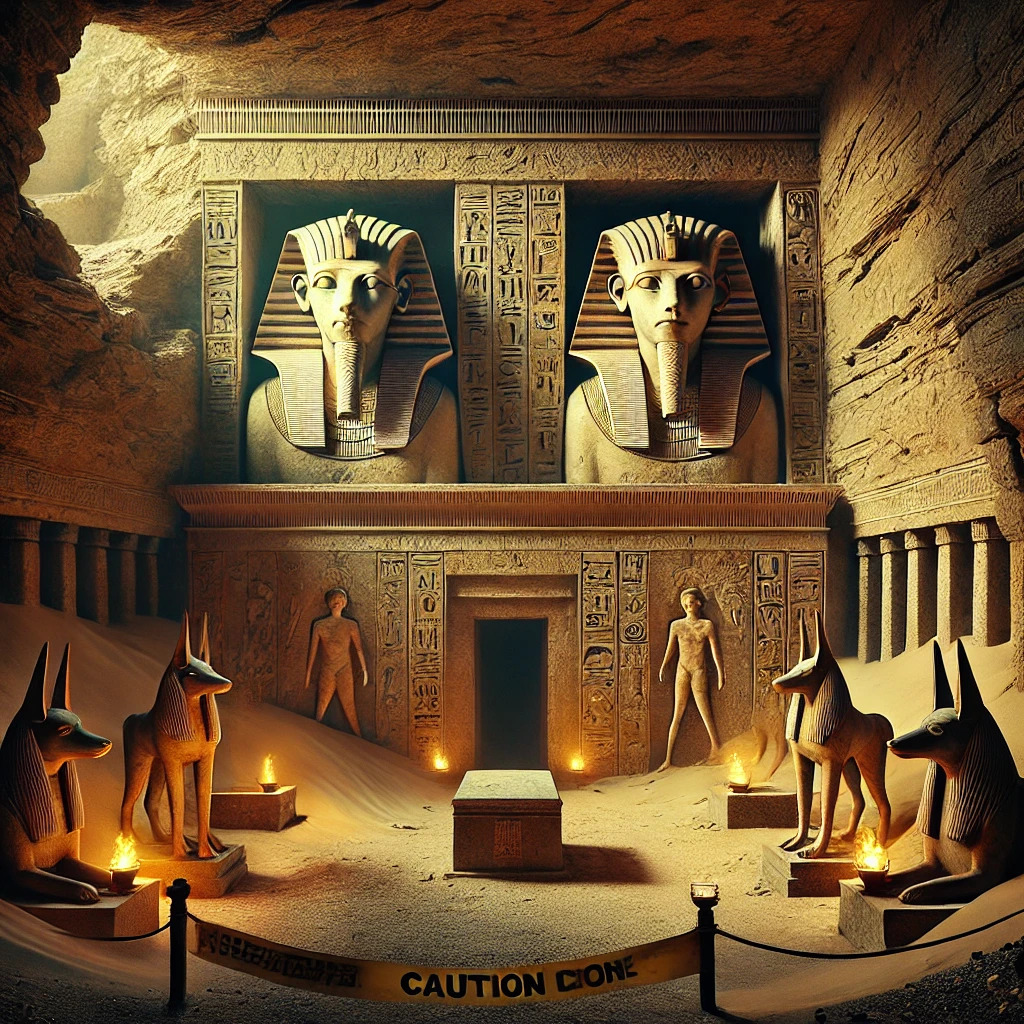
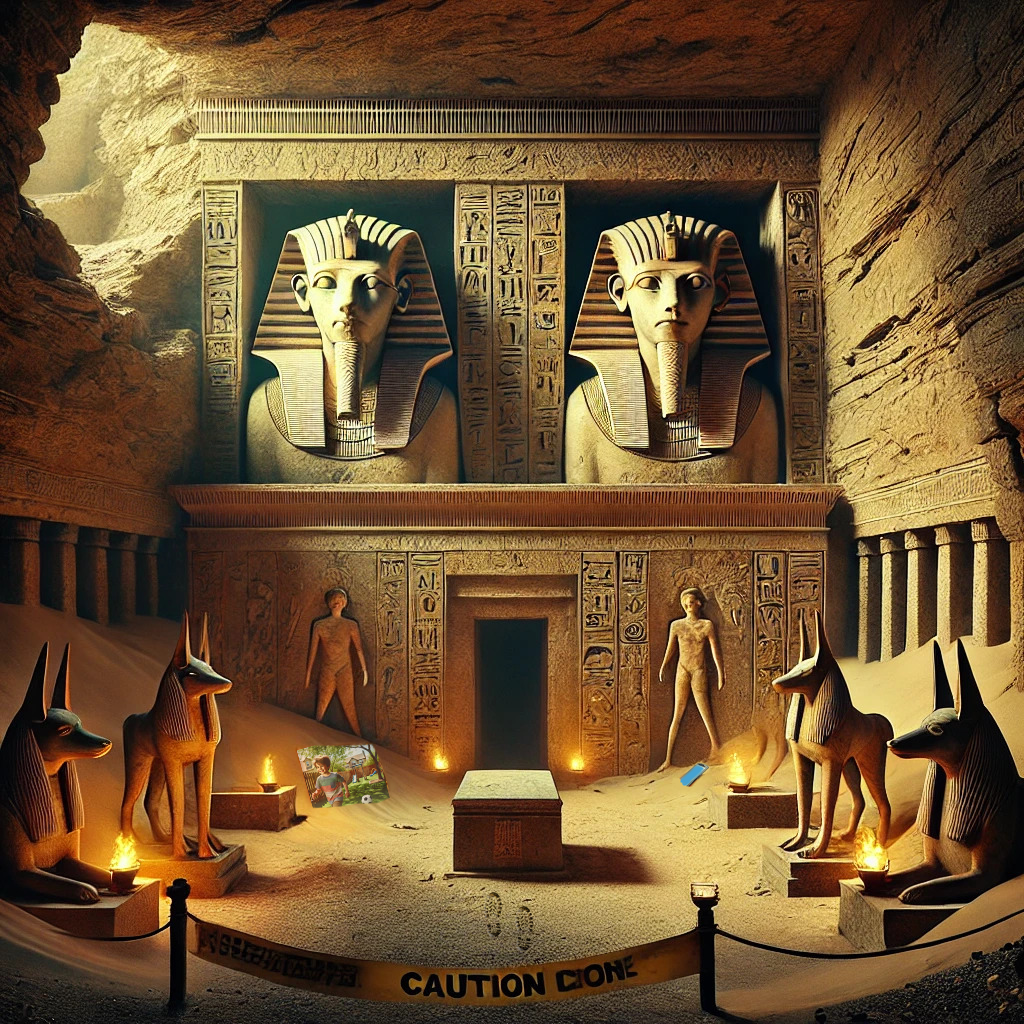
added the necessary resources and the phone feature

Changed region(s): [[0.2812, 0.7188, 0.375, 0.8125], [0.4688, 0.875, 0.5312, 0.9062], [0.6562, 0.75, 0.6875, 0.7812]]

diff --git a/src/main/java/nz/ac/auckland/se206/controllers/RoomController.java b/src/main/java/nz/ac/auckland/se206/controllers/RoomController.java
@@ -11,6 +11,7 @@ import javafx.scene.control.Label;
 import javafx.scene.image.Image;
 import javafx.scene.image.ImageView;
 import javafx.scene.input.MouseEvent;
+import javafx.scene.layout.Pane;
 import javafx.scene.layout.VBox;
 import javafx.scene.shape.Rectangle;
 import javafx.scene.text.Text;
@@ -47,6 +48,7 @@ public class RoomController {
   @FXML private ImageView closeButtonImage;
   @FXML private ImageView closeButtonImage1;
   @FXML private ImageView closeButtonImage2;
+  @FXML private ImageView closeButtonImage3;
   @FXML private ImageView crimeScene;
   @FXML private ImageView cross;
   @FXML private ImageView guide;
@@ -63,17 +65,14 @@ public class RoomController {
   @FXML private Text objective2Label;
   @FXML private VBox objectiveMenu;
   @FXML private VBox suspectMenu;
+  @FXML private Pane phonePopup;
+  @FXML private ImageView phoneDisplay;
 
   private boolean clueVisible = false;
   private boolean isFootprintVisible = false;
   private GameTimer gameTimer;
   private Image backImage;
-  private Image fifthSlide;
   private Image frontImage;
-  private Image fourthSlide;
-  private Image secondSlide;
-  private Image sixthSlide;
-  private Image thirdSlide;
   private ObjectivesManager objectivesManager;
 
   /**
@@ -112,12 +111,6 @@ public class RoomController {
 
     frontImage = new Image(getClass().getResourceAsStream("/images/kid.jpg"));
     backImage = new Image(getClass().getResourceAsStream("/images/pin.png"));
-
-    secondSlide = new Image(getClass().getResourceAsStream("/images/730.png"));
-    thirdSlide = new Image(getClass().getResourceAsStream("/images/740.png"));
-    fourthSlide = new Image(getClass().getResourceAsStream("/images/750.png"));
-    fifthSlide = new Image(getClass().getResourceAsStream("/images/static.png"));
-    sixthSlide = new Image(getClass().getResourceAsStream("/images/stolen.png"));
     photoClue.setImage(frontImage);
 
     objectivesManager = ObjectivesManager.getInstance();
@@ -131,6 +124,39 @@ public class RoomController {
     } else {
       btnGuess.setDisable(false);
     }
+  }
+
+  @FXML
+  private void onPhoneClick() {
+    phonePopup.setVisible(true);
+    closeButtonImage3.setVisible(true);
+  }
+
+  @FXML
+  private void onPhotoClicked() {
+    phoneDisplay.setImage(new Image(getClass().getResourceAsStream("/images/img1.png")));
+  }
+
+  @FXML
+  private void onBackPressed() {
+    phoneDisplay.setImage(new Image(getClass().getResourceAsStream("/images/home_screen.png")));
+  }
+
+  @FXML
+  private void onUnlockPhone() {
+    phoneDisplay.setImage(new Image(getClass().getResourceAsStream("/images/home_screen.png")));
+  }
+
+  @FXML
+  private void onCalendarClicked() {
+    phoneDisplay.setImage(new Image(getClass().getResourceAsStream("/images/calendar.png")));
+  }
+
+  @FXML
+  private void onCloseButtonPressed() {
+    phonePopup.setVisible(false); // Hide the phone popup when the close button is clicked
+    phoneDisplay.setImage(new Image(getClass().getResourceAsStream("/images/phone.png")));
+    closeButtonImage3.setVisible(false);
   }
 
   @FXML
@@ -185,26 +211,6 @@ public class RoomController {
   }
 
   @FXML
-  private void onCamClicked() {
-    // if the suspect menu is visible then it will be closed
-    if (suspectMenu.isVisible()) {
-      onToggleMenu();
-    }
-    // closes all the other clues
-    handleCloseClick(null);
-    onCloseButton1Pressed();
-    closeButtonImage1.setVisible(false);
-    // updates the objectives since a clue has been clicked
-    objectivesManager.completeObjectiveStep(1);
-    pictureBackground.setVisible(false);
-    // sets the current slide to the first slide
-    camSlide.setVisible(true);
-    closeButtonImage2.setVisible(true);
-    current = 1;
-    camSlide.setImage(secondSlide);
-  }
-
-  @FXML
   private void onCloseButton2Pressed() {
     pictureBackground.setVisible(true);
     camSlide.setVisible(false);
@@ -215,19 +221,16 @@ public class RoomController {
   public void nxtImg() {
     // basically a switch statement to change the image
     // to the right based on what slide it is currently on
-    System.out.println(current);
+
     current = current + 1;
+    System.out.println(current);
     if (current == 2) {
-      camSlide.setImage(thirdSlide);
+      phoneDisplay.setImage(new Image(getClass().getResourceAsStream("/images/img2.png")));
     } else if (current == 3) {
-      camSlide.setImage(fourthSlide);
-    } else if (current == 4) {
-      camSlide.setImage(fifthSlide);
-    } else if (current == 5) {
-      camSlide.setImage(sixthSlide);
+      phoneDisplay.setImage(new Image(getClass().getResourceAsStream("/images/img3.png")));
     } else {
-      current = 5;
-      camSlide.setImage(sixthSlide);
+      current = 3;
+      phoneDisplay.setImage(new Image(getClass().getResourceAsStream("/images/img3.png")));
     }
   }
 
@@ -238,16 +241,12 @@ public class RoomController {
     System.out.println(current);
     current = current - 1;
     if (current == 2) {
-      camSlide.setImage(thirdSlide);
+      phoneDisplay.setImage(new Image(getClass().getResourceAsStream("/images/img2.png")));
     } else if (current == 3) {
-      camSlide.setImage(fourthSlide);
-    } else if (current == 4) {
-      camSlide.setImage(fifthSlide);
-    } else if (current == 5) {
-      camSlide.setImage(sixthSlide);
+      phoneDisplay.setImage(new Image(getClass().getResourceAsStream("/images/img3.png")));
     } else {
       current = 1;
-      camSlide.setImage(secondSlide);
+      phoneDisplay.setImage(new Image(getClass().getResourceAsStream("/images/img1.png")));
     }
   }
 
